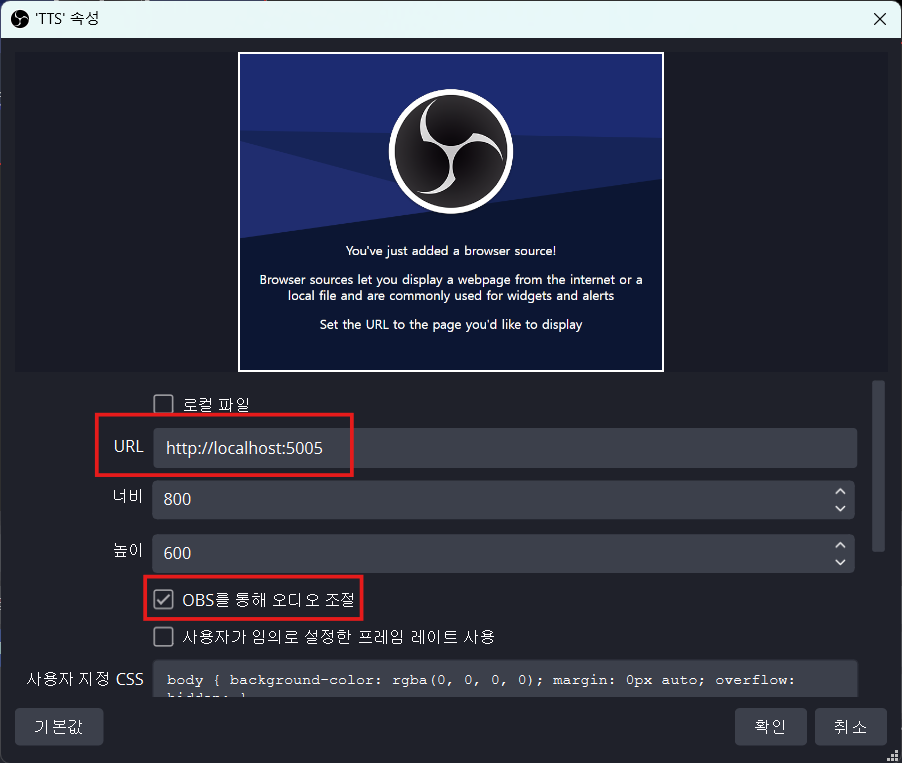
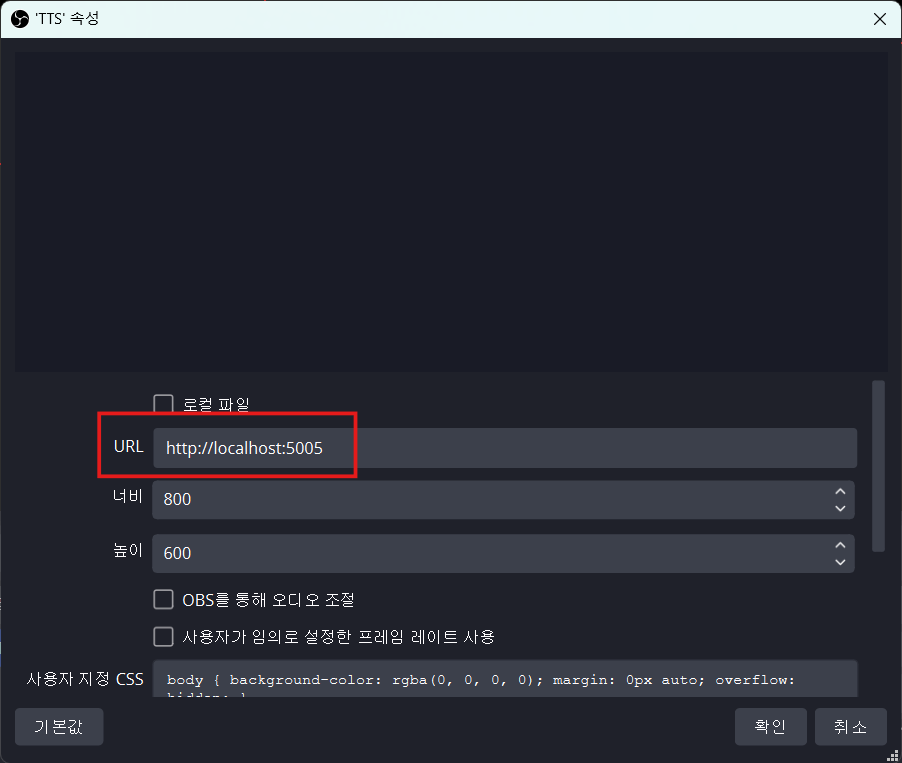
feat: TTS 볼륨 조절 추가

diff --git a/static/script.js b/static/script.js
@@ -2,13 +2,20 @@ const ws = new WebSocket("ws://localhost:5005/ws");
 const queue = [];
 
 ws.onmessage = function(event) {
-    console.log(event);
-    const audioBlob = new Blob([event.data], { type: 'audio/mp3' });
-    const audioUrl = URL.createObjectURL(audioBlob);
-    queue.push(audioUrl);
-//    const audioPlayer = document.getElementById("audioPlayer");
-//    audioPlayer.src = audioUrl;
-//    audioPlayer.play();
+    const event_data = event.data;
+
+    if (typeof event_data === "string") {
+        const jsonData = JSON.parse(event_data);
+        if (jsonData["event_type"] === "volume") {
+            const audioPlayer = document.getElementById("player");
+            audioPlayer.volume = jsonData["message"];
+            console.log("Set TTS Volume ", jsonData["message"]);
+        }
+    } else {
+        const audioBlob = new Blob([event_data], { type: 'audio/mp3' });
+        const audioUrl = URL.createObjectURL(audioBlob);
+        queue.push(audioUrl);
+    }
 };
 
 

diff --git a/app.py b/app.py
@@ -13,6 +13,7 @@ from jinja2 import Environment, FileSystemLoader
 
 import tts
 from config import load_config, get_env
+from event_message import EventMessage
 from manager import ConnectionManager
 
 logging.basicConfig(
@@ -35,12 +36,13 @@ templates = Environment(loader=FileSystemLoader("templates"))
 @app.get("/", response_class=HTMLResponse)
 async def home():
     template = templates.get_template("index.html")
-    return template.render()
+    return template.render(headers={"Cache-Control": "no-store"})
 
 
 @app.websocket("/ws")
 async def websocket_endpoint(websocket: WebSocket):
     await manager.connect(websocket)
+    await manager.send_message(EventMessage("volume", get_env("tts_volume")).json, websocket=websocket)
     try:
         while True:
             data = await websocket.receive_text()

diff --git a/build.py b/build.py
@@ -25,6 +25,7 @@ google tts api를 사용하기 위해, 다운로드 받았던 json 파일을 Chz
 - dynamic_speaking: "true" or "false", 설정할 경우 채팅 내용이 길수록 빠르게 읽어줍니다.
 - pitch: -20.00 ~ 20.00 (default: 0.00)
 - max_length: 허용하고 싶은 채팅의 최대 길이, 최대 100자 (default: 100)
+- volume: TTS 볼륨 크기를 조절, 0.0 ~ 1.0 사이의 값으로 설정합니다.
 """
 
 confing_json = """{
@@ -39,7 +40,8 @@ confing_json = """{
         "speaking_rate": 1,
         "dynamic_speaking": "true",
         "pitch": 1,
-        "max_length": 200
+        "max_length": 100,
+        "volume": 0.5
     }
 }"""
 

diff --git a/config.py b/config.py
@@ -72,6 +72,14 @@ def load_config():
                     tts_max_length = tts_data.get("max_length")
                     int_max_length = min(int(tts_max_length), 100)
                     os.environ["tts_max_length"] = str(int_max_length)
+
+                if not is_blank(tts_data, "volume"):
+                    tts_volume = tts_data.get("volume")
+                    float_volume = min(float(tts_volume), 1.0)
+                    os.environ["tts_volume"] = str(float_volume)
+                else:
+                    os.environ["tts_volume"] = "1.0"
+
     except Exception as e:
         _log.error(e)
         input("Press Enter to exit...")

diff --git a/event_message.py b/event_message.py
@@ -1,0 +1,12 @@
+import json
+from typing import Literal
+
+
+class EventMessage:
+    def __init__(self, event_type: Literal["volume"], message: str) -> None:
+        self.event_type = event_type
+        self.message = message
+
+    @property
+    def json(self) -> str:
+        return json.dumps(self.__dict__)

diff --git a/README.md b/README.md
@@ -39,22 +39,24 @@
         "speaking_rate": 1,
         "dynamic_speaking": "true",
         "pitch": 1,
-        "max_length": 100
+        "max_length": 100,
+        "volume": 0.5
     }
 }
 ```
 
-| json                 | 설명                                                                                                                                                                            |
-|----------------------|-------------------------------------------------------------------------------------------------------------------------------------------------------------------------------|
+| json                 | 설명                                                                                                                                                                             |
+|----------------------|--------------------------------------------------------------------------------------------------------------------------------------------------------------------------------|
 | **channel_id**       | 방송채널 아이디입니다. 치지직 방송화면에서 주소를 보시면 확인할 수 있습니다. `chzzk.naver.com/live/f0cdf51f3fefe62f96af5ec655d769c1`에서 `f0cdf51f3fefe62f96af5ec655d769c1` 부분이 채널아이디입니다.<br>![](./readme/21.png) |
-| **login**            | 로그인 부분은 `선택사항`입니다. 단순히, 채팅메시지를 TTS로 읽어주는 역할만 하기 때문에 작성하실 필요는 없습니다. 해당 봇을 기반으로 기능을 더 추가하시려면 로그인이 필요합니다.                                                                        |
-| **google_json**      | `Google TTS API 발급받기` 문서에서 해당부분이 맨 마지막에 언급됩니다.                                                                                                                                |
-| **tts_option**       | TTS 옵션입니다. 성별, 스피드, 피치 등을 설정할 수 있습니다.                                                                                                                                         |
-| **gender**           | 성별로 남성은 `MALE`, 여성은 `FEMALE`로 지정합니다.                                                                                                                                          |
-| **speaking_rate**    | TTS 재생 속도를 지정합니다. 0.25 ~ 4.00 사이의 값으로 지정해야 합니다.                                                                                                                               |
-| **dynamic_speaking** | 채팅 내용이 길수록 더 빠르게 재생하게 할 수 있는 옵션입니다. `true` or `false`로 입력하시면 됩니다. (`false` 옵션 비활성화)                                                                                           |
-| **pitch** | TTS의 음높이를 조절할 수 있습니다. -20.00 ~ 20.00 사이의 값으로 지정해야 합니다.                                                                                                                        |
-| **max_length** | 채팅메시지가 `max_length`보다 길면 읽어주지 않도록 설정합니다.                                                                                                              |
+| **login**            | 로그인 부분은 `선택사항`입니다. 단순히, 채팅메시지를 TTS로 읽어주는 역할만 하기 때문에 작성하실 필요는 없습니다. 해당 봇을 기반으로 기능을 더 추가하시려면 로그인이 필요합니다.                                                                         |
+| **google_json**      | `Google TTS API 발급받기` 문서에서 해당부분이 맨 마지막에 언급됩니다.                                                                                                                                 |
+| **tts_option**       | TTS 옵션입니다. 성별, 스피드, 피치 등을 설정할 수 있습니다.                                                                                                                                          |
+| **gender**           | 성별로 남성은 `MALE`, 여성은 `FEMALE`로 지정합니다.                                                                                                                                           |
+| **speaking_rate**    | TTS 재생 속도를 지정합니다. 0.25 ~ 4.00 사이의 값으로 지정해야 합니다.                                                                                                                                |
+| **dynamic_speaking** | 채팅 내용이 길수록 더 빠르게 재생하게 할 수 있는 옵션입니다. `true` or `false`로 입력하시면 됩니다. (`false` 옵션 비활성화)                                                                                            |
+| **pitch** | TTS의 음높이를 조절할 수 있습니다. -20.00 ~ 20.00 사이의 값으로 지정해야 합니다.                                                                                                                         |
+| **max_length** | 채팅메시지가 `max_length`보다 길면 읽어주지 않도록 설정합니다.                                                                                                                                       |
+| **volume** | TTS 볼륨을 조절할 수 있습니다. 0.0 ~ 1.0 사이의 값으로 설정하면 됩니다.                                                                                                                                |
 
 ## 방송 설정하기 (OBS)
 
@@ -62,7 +64,7 @@
 ![](./readme/obs1.png)
 2. 이름을 지정하고 [확인]을 누릅니다.<br>
 ![](./readme/obs2.png)
-3. [URL]을 `http://localhost:5005`로 지정하고, TTS 볼륨조절을 위해 `OBS를 통해 오디오 조절`을 체크합니다.
+3. [URL]을 `http://localhost:5005`로 지정합니다. `OBS를 통해 오디오 조절` 옵션을 체크하면 방송에서는 TTS가 들리지만 본인에게 안들립니다.
 ![](./readme/obs3.png)
 4. 이제 방송을 시작하실 때, `http://localhost:5005`를 브라우저로 한번 접속하여 흰 화면을 마우스로 몇번 클릭하고 진행하시면 됩니다.
 
